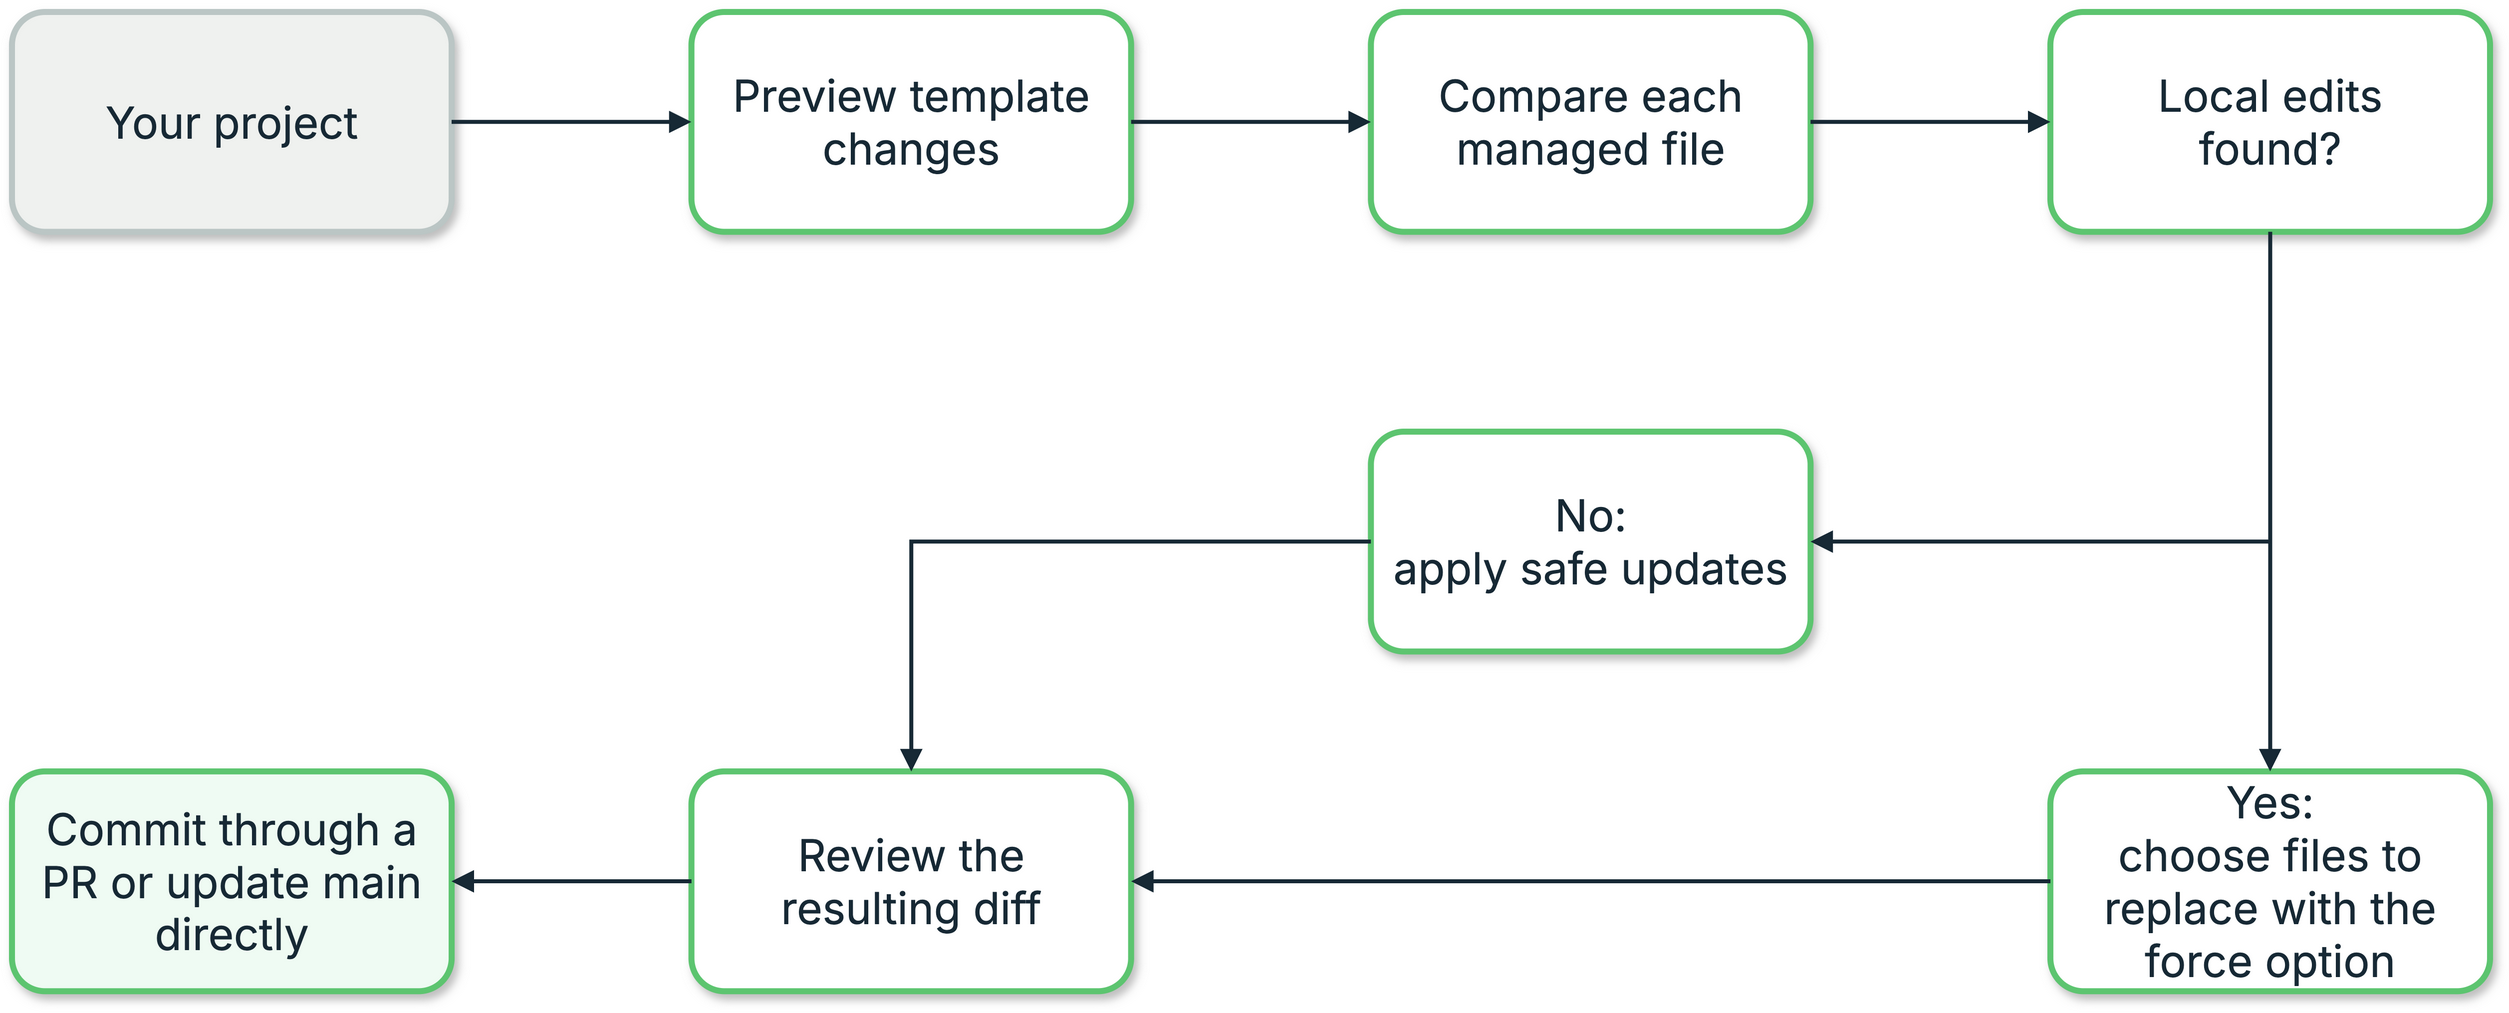
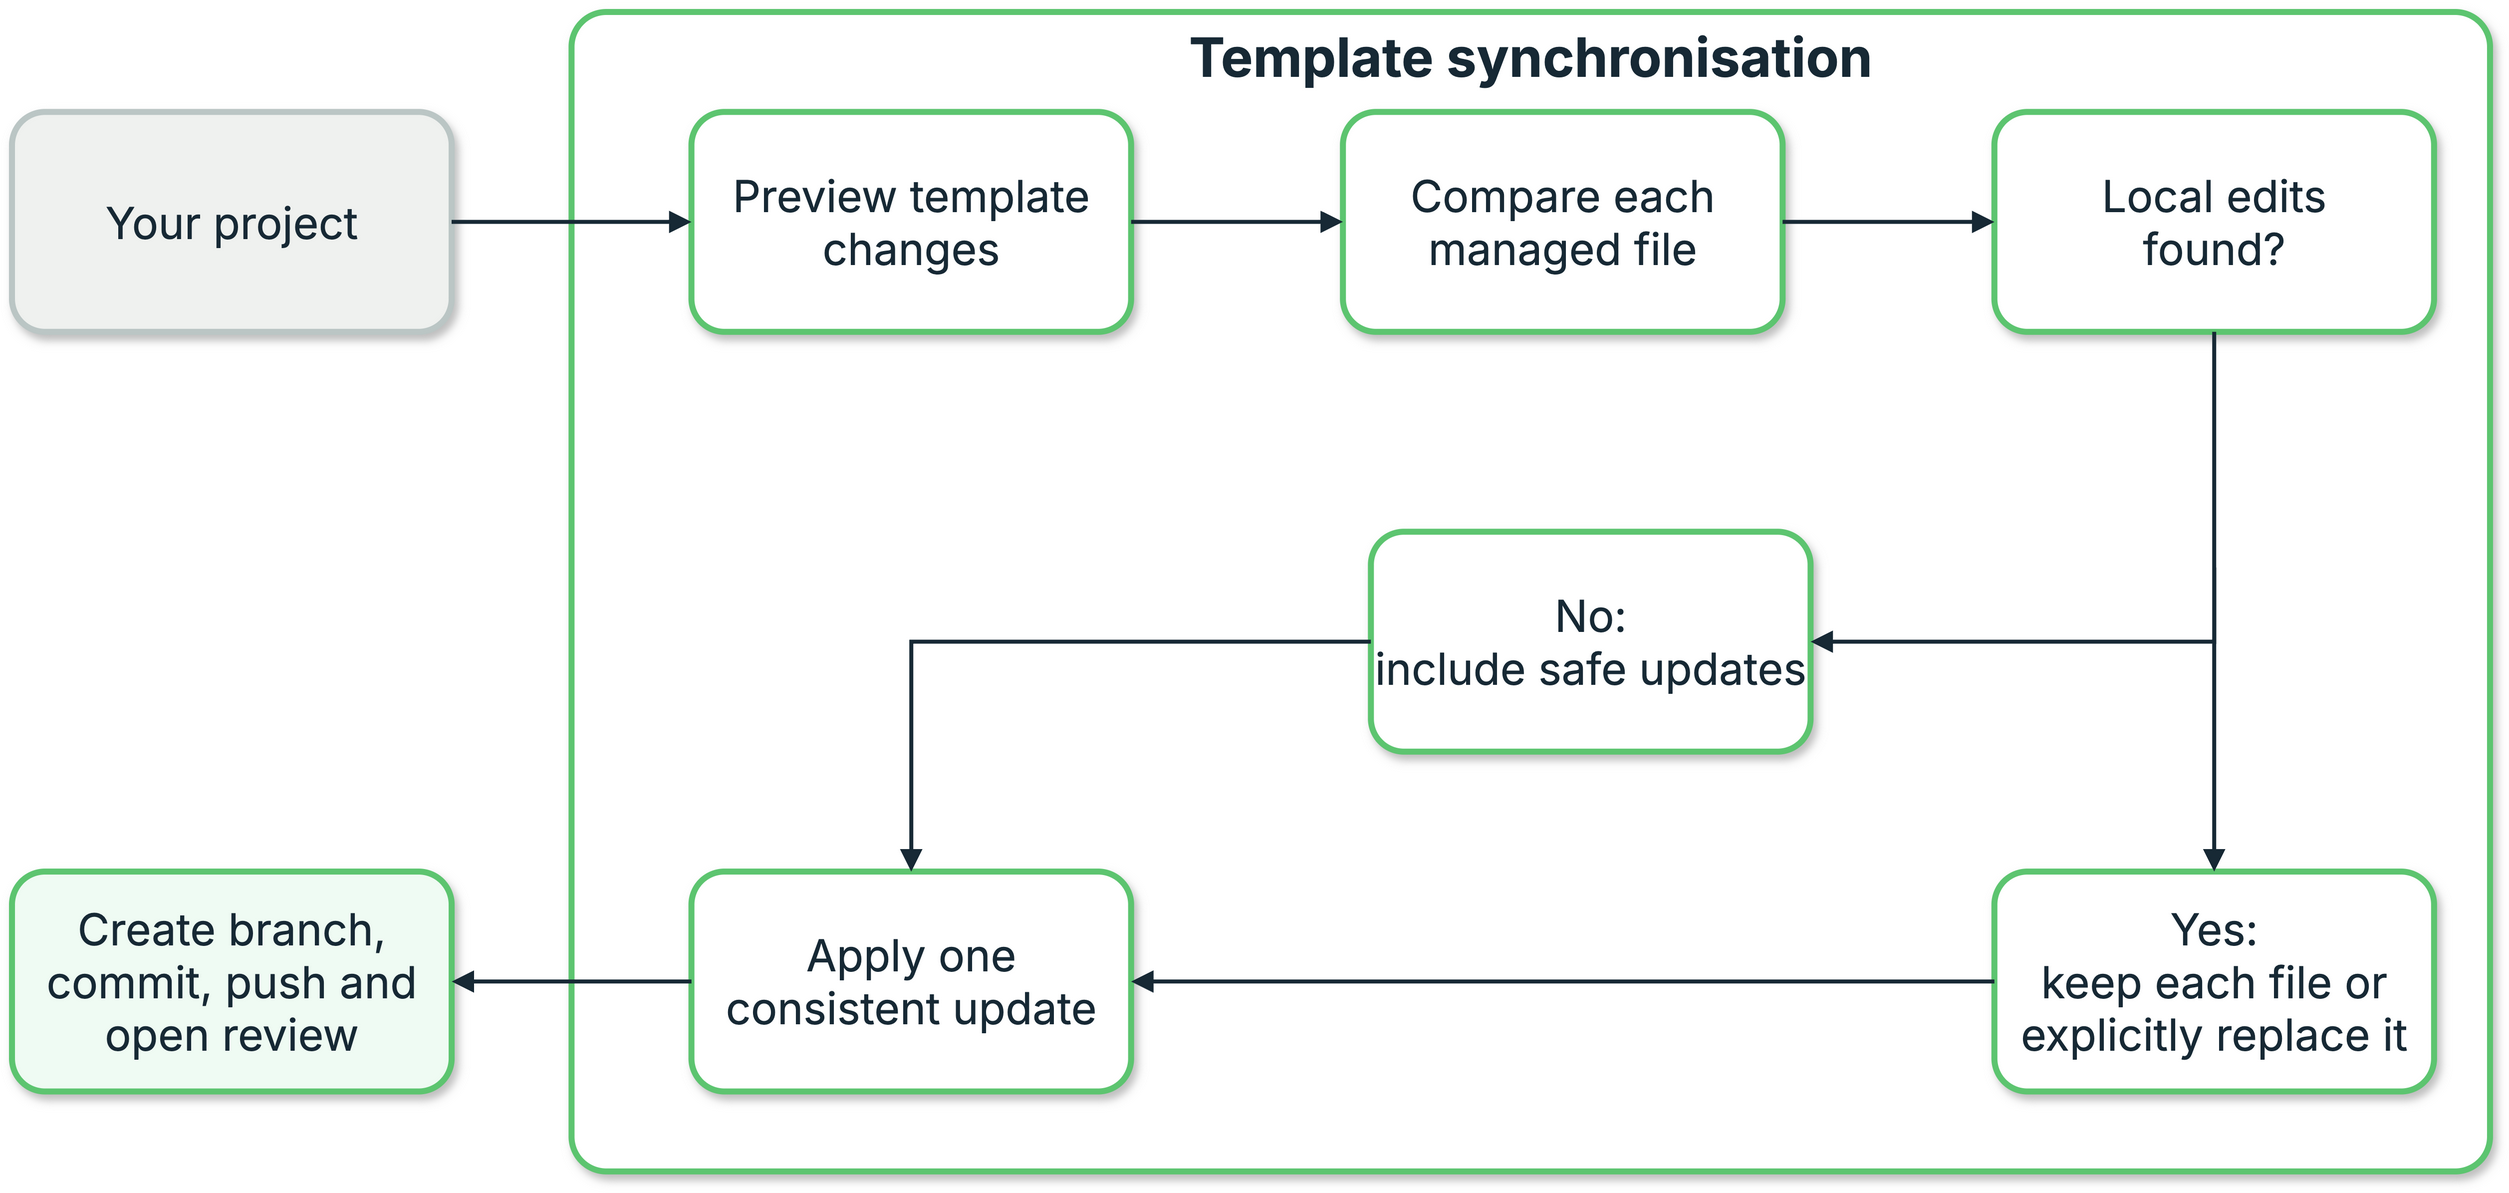
Clarify template sync documentation (#633)

diff --git a/docs/devcons/template-sync.md b/docs/devcons/template-sync.md
@@ -17,12 +17,12 @@ The \index{commands!`prodockit template-sync`} command closes that gap without t
 writing.
 
 \ref{fig-template-sync-decision} follows each managed file from the preview to
-the final diff. An unchanged local file takes the safe-update path; a file with
-local edits is preserved unless the author explicitly chooses the template
-copy with `--force`. Both paths rejoin at the review before anything is
-committed.
+the default review workflow. An unchanged local file takes the safe-update
+path; a file with local edits is preserved unless the author explicitly
+chooses the template copy with `--force`. Both paths rejoin as one consistent
+update, which `--apply` commits to a separate branch and sends for review.
 
-![Template sync previews changes first, updates unchanged managed files automatically, and leaves author-edited files for an explicit decision](../assets/diagrams/23.1-template-sync-decision.png){ .documentation-diagram }
+![Template sync previews changes first, updates unchanged managed files automatically, leaves author-edited files for an explicit decision, and sends one consistent update for review](../assets/diagrams/23.1-template-sync-decision.png){ .documentation-diagram }
 /// figure-caption
     attrs: {id: fig-template-sync-decision}
 
@@ -39,7 +39,7 @@ The progression from preview to a pushed update is shown in
 \ref{tab-devcons-template-sync-choose-how-far-the-command-should-go}.
 
 | Command {: width="52%" } | What it does | When to use it |
-|---|---|---|
+|:---|:---|:---|
 | `prodockit template-sync` | Shows what needs updating, without changing the project | Start here |
 | `prodockit template-sync --verbose` | Shows the same preview with technical details and file paths | You are investigating a particular file or reporting a problem |
 | `prodockit template-sync --apply` | Makes and saves the changes on a separate branch, sends it to the host, and creates a GitLab merge request | Your project uses a pull request (GitHub) or merge request (GitLab) |
